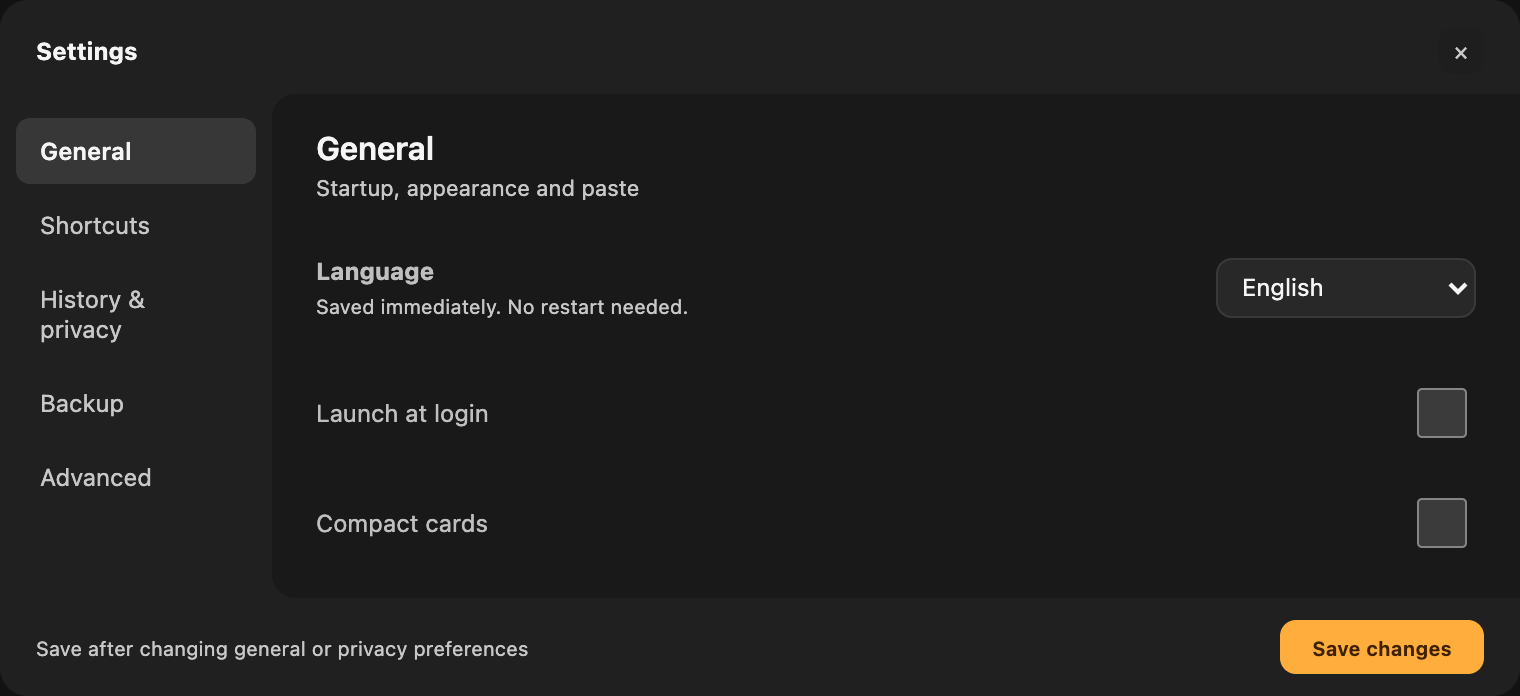
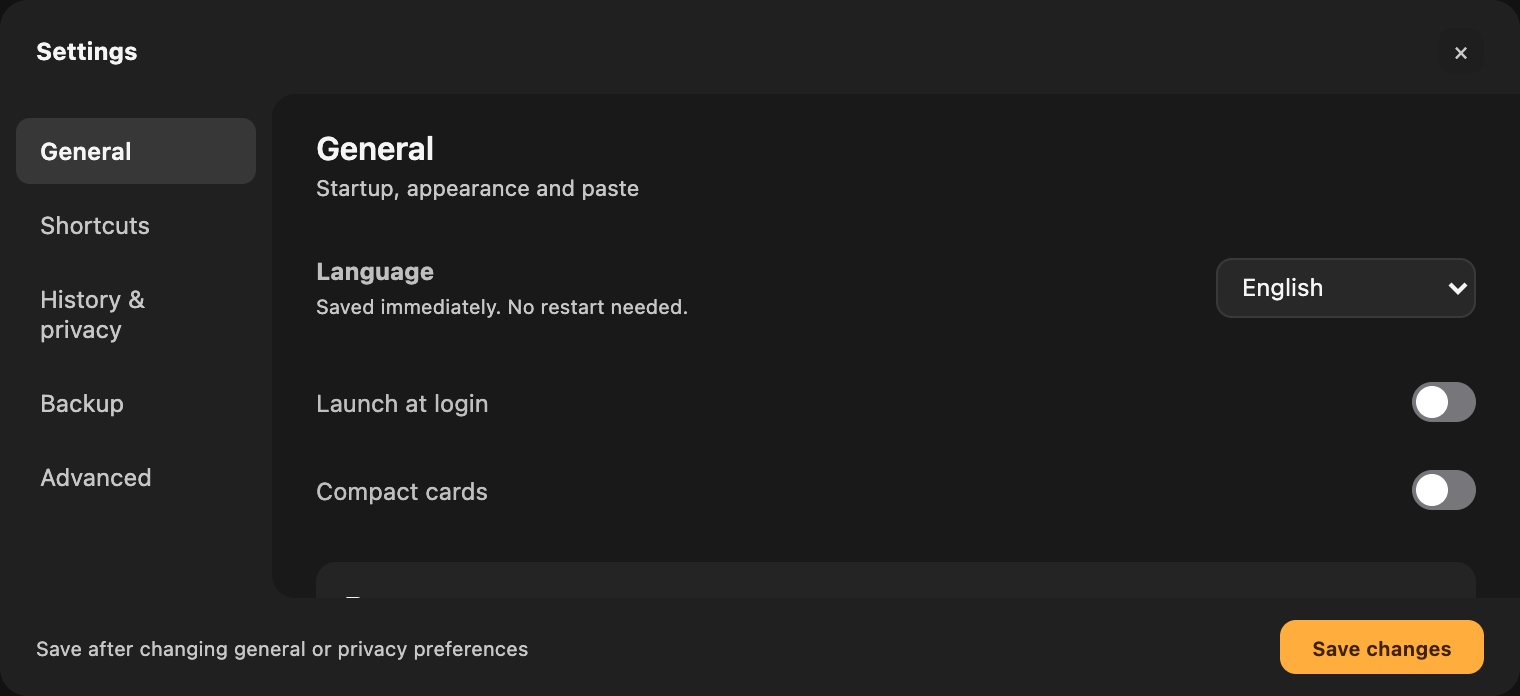
style: use pill toggles throughout settings

diff --git a/apps/desktop/styles.css b/apps/desktop/styles.css
@@ -2186,7 +2186,46 @@ button.shortcut-hint:focus-visible { outline: 2px solid var(--selected); outline
 .settings-page > label { padding: 12px 0; margin: 0; border-bottom: 0; font-size: 12px; grid-template-columns: minmax(0, 1fr) 110px; align-items: center; }
 .settings-page > .excluded-apps { grid-template-columns: 1fr; gap: 8px; }
 .settings-page > .toggle-setting { display: flex; justify-content: space-between; }
-.settings-page .toggle-setting input { accent-color: var(--selected); }
+.settings-popover input[type="checkbox"] {
+  -webkit-appearance: none;
+  appearance: none;
+  flex: 0 0 32px;
+  width: 32px;
+  height: 20px;
+  margin: 0;
+  padding: 2px;
+  border: 0;
+  border-radius: 999px;
+  background: #76767b;
+  box-shadow: none;
+  cursor: pointer;
+  transition: background-color 140ms ease;
+}
+.settings-popover input[type="checkbox"]::before {
+  content: "";
+  display: block;
+  width: 16px;
+  height: 16px;
+  border-radius: 50%;
+  background: #fff;
+  transform: translateX(0);
+  transition: transform 140ms ease;
+}
+.settings-popover input[type="checkbox"]:checked { background: #3478f6; }
+.settings-popover input[type="checkbox"]:checked::before { transform: translateX(12px); }
+.settings-popover input[type="checkbox"]:focus-visible { outline: 2px solid #3478f6; outline-offset: 3px; }
+.settings-popover input[type="checkbox"]:disabled { opacity: 0.45; cursor: default; }
+@media (prefers-reduced-motion: reduce) {
+  .settings-popover input[type="checkbox"],
+  .settings-popover input[type="checkbox"]::before { transition: none; }
+}
+@media (forced-colors: active) {
+  .settings-popover input[type="checkbox"] { background: ButtonFace; border: 1px solid ButtonText; padding: 1px; }
+  .settings-popover input[type="checkbox"]::before { background: ButtonText; }
+  .settings-popover input[type="checkbox"]:checked { background: Highlight; }
+  .settings-popover input[type="checkbox"]:checked::before { background: HighlightText; }
+  .settings-popover input[type="checkbox"]:focus-visible { outline-color: Highlight; }
+}
 .settings-page > section { margin: 14px 0 0; padding: 14px; border: 0; border-radius: 10px; background: var(--workspace-group); }
 .settings-page .permission-help { font-size: 11px; line-height: 1.6; }
 .permission-troubleshooting { margin-top: 10px; font-size: 11px; color: var(--muted); }

diff --git a/docs/verification.md b/docs/verification.md
@@ -2,6 +2,14 @@
 
 Snapshot: **2026-09-08**, source release **v0.1.0-mvp.1**. Platform checked locally: Apple Silicon macOS, Rust 1.98.0, Trunk 0.21.14. This record separates automated checks from native acceptance and distribution readiness.
 
+## Settings toggle appearance (2026-09-10)
+
+Local **beta.18** replaces square settings checkboxes with compact **32 × 20 point pill toggles** based on the supplied reference: gray when off, blue when on, and a white circular thumb. The same styling covers general, privacy and advanced settings. Native checkbox inputs, labels, keyboard interaction and save behavior remain unchanged. Disabled controls dim; keyboard focus remains visible; reduced-motion and forced-color preferences have explicit styles. The rail and independent workspace window logic are unchanged.
+
+Validation passed: frontend build and three compiled-UI groups (detached workspace, toolbar/settings and visual), including dark/light layouts, plus regenerated English synthetic README captures. All four reports match the bundled frontend assets. This is a CSS-only application change; Rust tests were not rerun and previous test counts belong to their stated versions.
+
+The previous beta.17 process had no active editor/save/import and exited normally. The verified, ad-hoc-signed beta.18 is installed at **`/Applications/CopyRail.app`**; every file matches the delivery bundle. Native WebKit inspection confirmed a gray/off login-start toggle and a blue/on compact-layout toggle, with white thumbs and no square checkmark. Their values were not changed. Settings showed **⇧⌘V registered** with retry disabled. Esc closed settings and hid the single ordinary process (**PID 88399**). No real paste, login preference, Accessibility or system-security change was made. Checksum-verified maintenance retained beta.18, beta.17 and beta.16 and removed beta.15 plus superseded rebuildable outputs.
+
 ## Independent settings and preview window (2026-09-10)
 
 Local **beta.17** fixes the native transition architecture. The user's recording reopened the flicker issue after beta.16: settings open/close and preview transitions showed a displaced or absent rail for a frame. The earlier browser geometry checks could not validate AppKit/WebKit presentation. The production rail now keeps its frame while a second, persistent NSPanel hosts settings or preview; switching items reuses the preview dialog. Only the auxiliary panel is positioned above the rail. Language/preferences propagate between windows, selection and navigation remain rail-owned, and stale render acknowledgements cannot reopen a closed panel. Settings drafts survive closing/reopening. The embedded browser renderer retains its legacy combined layout for existing fixture coverage; it is not the production window architecture.

diff --git a/README.md b/README.md
@@ -48,7 +48,7 @@ Hiding the rail leaves capture running. Pause capture in Settings or the menu ba
 
 ## Status and platform
 
-CopyRail is an **early source MVP**, developed and tested on Apple Silicon macOS. The latest local iteration is **0.1.0-local-beta.17**. There is no Developer ID-signed, notarized binary release yet.
+CopyRail is an **early source MVP**, developed and tested on Apple Silicon macOS. The latest local iteration is **0.1.0-local-beta.18**. There is no Developer ID-signed, notarized binary release yet.
 
 The implemented features above are not a claim of complete daily-use validation. Full cross-app paste and drag/drop coverage, complex rich-text fidelity, full-screen Spaces, multiple displays and VoiceOver still have open acceptance items. Shared pinboards, multi-device sync and mobile clients are outside this MVP. See the [verification record](docs/verification.md) for the tested scope.
 
